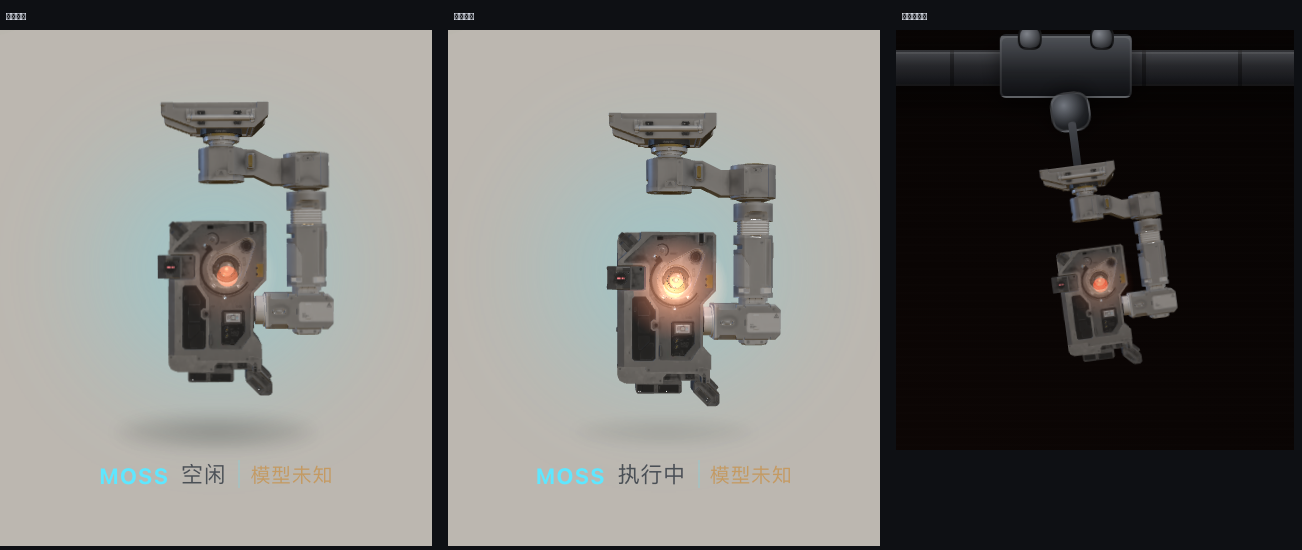
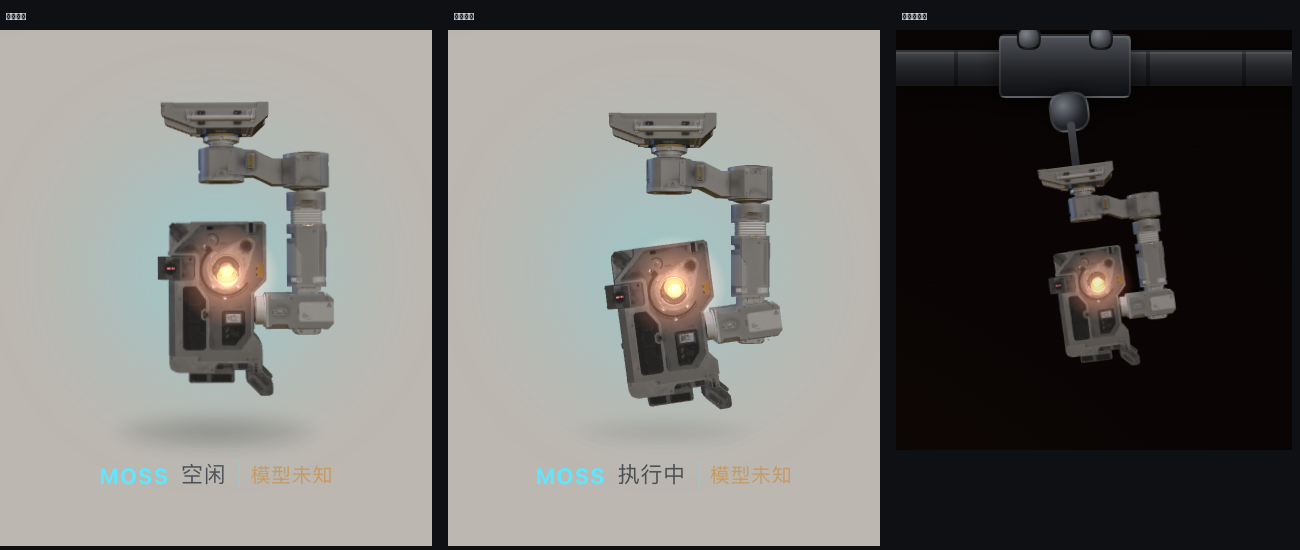
feat(moss): 三关节改为关键帧姿态序列
姿态（度）：
  静止 0/0/0 → 右偏 +9/-5/+6 → 左偏 -7/+6/-5 → 回中 +4/-2/+3 → 静止 0/0/0
- J1、J2 绕垂直 Y 轴偏航，J3 绕 Z 轴画面内摆
- 每段 1.6s smoothstep 缓动，循环；执行态每段 1.0s、角度 ×1.25、速度 ×2.6
- 修复动画块多出一个未闭合花括号的语法错误
- 素材版本 v54

diff --git a/assets3d/boot.js b/assets3d/boot.js
@@ -281,34 +281,29 @@ export function createMoss3D(canvas, opts) {
     last = now || 0
     const t = (performance.now() - t0) / 1000
     const speed = working ? 2.6 : 1
-    if (armTop) {
-      /* 肩关节与肘关节反向配合：手臂抬起时小臂回折，手始终靠近机身 */
-      /* 三个关节：轴向不同、角度不同、周期不同（各自独立的正弦） */
-      const scale = working ? 1.7 : 1
-      if (armTop) {
-        /* J1 绕垂直轴偏航 */
-        armTop.rotation.y = Math.sin(t * 0.52 * speed) * (3.0 * scale * Math.PI / 180)
-      }
-      if (armMid) {
-        /* J2 绕垂直轴偏航（周期与相位都不同） */
-        armMid.rotation.y = Math.sin(t * 0.83 * speed + 1.2) * (2.4 * scale * Math.PI / 180)
-      }
-      if (armWrist) {
-        /* J3 绕朝向镜头的 Z 轴摆动 */
-        armWrist.rotation.z = Math.sin(t * 0.61 * speed + 2.1) * (1.8 * scale * Math.PI / 180)
-      }
-    }
-    if (lensCore && lensHalo) {
-      /* 空闲：暗红呼吸；执行：亮起并快速脉冲 */
-      const base = working ? 0.95 : 0.55
-      const k = working ? 0.45 : 0.18
-      const pulse = base + Math.sin(t * (working ? 5.2 : 1.6)) * k
-      lensCore.material.opacity = Math.max(0.15, Math.min(1, pulse))
-      lensCore.material.color.setHex(working ? 0xff2a0c : 0xff5a2c)
-      if (lensLamp) lensLamp.intensity = (working ? 3.4 : 1.4) * (0.85 + 0.15 * Math.sin(t * (working ? 5.2 : 1.6)))
-      lensHalo.material.opacity = Math.max(0.12, Math.min(1, pulse * 0.85))
-      lensHalo.scale.setScalar((lensHalo.userData.base || lensHalo.scale.x) * (1 + (working ? 0.06 : 0.03) * Math.sin(t * (working ? 5.2 : 1.6))))
-    }
+    /* 三个关节：按关键帧走具体角度（单位：度）
+         J1/J2 绕垂直 Y 轴偏航，J3 绕朝向镜头的 Z 轴摆。
+         序列：静止 → 右偏 → 左偏 → 回中 → 静止，每段 1.6s，平滑缓动。 */
+      const POSES = [
+        { a1: 0, a2: 0, a3: 0 },
+        { a1: 9, a2: -5, a3: 6 },
+        { a1: -7, a2: 6, a3: -5 },
+        { a1: 4, a2: -2, a3: 3 },
+        { a1: 0, a2: 0, a3: 0 },
+      ]
+      const SEG = working ? 1.0 : 1.6
+      const amp = working ? 1.25 : 1
+      const total = SEG * (POSES.length - 1)
+      const lt = (t * speed) % total
+      const i = Math.min(POSES.length - 2, Math.floor(lt / SEG))
+      const f = (lt - i * SEG) / SEG
+      const e = f * f * (3 - 2 * f) /* smoothstep */
+      const from = POSES[i]
+      const to = POSES[i + 1]
+      const ang = (k) => ((from[k] + (to[k] - from[k]) * e) * amp) * Math.PI / 180
+      if (armTop) armTop.rotation.y = ang('a1')
+      if (armMid) armMid.rotation.y = ang('a2')
+      if (armWrist) armWrist.rotation.z = ang('a3')
     renderer.render(scene, camera)
   }
 

diff --git a/client/client.js b/client/client.js
@@ -37,7 +37,7 @@ window.__ModuleLoader__.load({
     var ROOT_ID = 'dsh-pet-liang-root'
     var POS_KEY = 'dsh-pet-liang:pos'
     /* 素材改了名字没变，加一个版本号强制浏览器重新取（宿主给的是 immutable 缓存） */
-    var ASSET_V = '53'
+    var ASSET_V = '54'
     var STYLE_ID = 'dsh-pet-liang-style'
 
     /** 四档推理等级对应的称呼与氛围色。 */

diff --git a/README.md b/README.md
@@ -109,11 +109,19 @@ MOSS 形象不再用预渲染 PNG，而是**在插件里实时渲染你提供的
 - 模型：`assets3d/moss.fbx`（4 个材质组 Moss_Main / Moss_arm / Moss_Glass / Moss_Annexes）
 - 贴图：4096² 原图压到 512 的 WebP，共 13 张（Base / Normal / Emissive / ORM 打包），合计约 400KB
 - 运行时：`three.module.min.js` + `FBXLoader` + `fflate` + `NURBS*`，全部本地托管，不联网
-- **关节**（参考图逐处核对轴向，见 `screenshots/14-joint-axes.png`）：三个关节的转轴并不相同——
-  - **J1** 头顶下方（颈部圆柱的水平缝）→ 绕**垂直 Y 轴**偏航，±3.0°，周期 0.52
-  - **J2** 前臂顶端（前臂圆柱的水平缝）→ 绕**垂直 Y 轴**偏航，±2.4°，周期 0.83、相位 +1.2
-  - **J3** 腕部（机身右侧、面向镜头的圆面）→ 绕**朝向镜头的 Z 轴**画面内摆，±1.8°，周期 0.61、相位 +2.1
-  三段用**嵌套枢轴**（p1→p2→p3，手与机身挂在 p3 下），所以 J1 转动时下面整组跟着走；执行态幅度 ×1.7、速度 ×2.6
+- **关节**：三处关节的转轴不同，按参考图逐处核对（`screenshots/14-joint-axes.png`）——J1 颈部、J2 前臂顶都是**绕垂直 Y 轴偏航**，J3 腕部是**绕朝向镜头的 Z 轴**画面内摆。用嵌套枢轴 p1→p2→p3，手与机身挂在 p3 下。
+- **转动序列**（`screenshots/15-joint-poses.png`）：按关键帧走具体角度，每段 1.6s 平滑缓动，循环：
+
+  | 关键帧 | J1 偏航 | J2 偏航 | J3 摆动 |
+  | --- | --- | --- | --- |
+  | 静止 | 0° | 0° | 0° |
+  | 右偏 | +9° | −5° | +6° |
+  | 左偏 | −7° | +6° | −5° |
+  | 回中 | +4° | −2° | +3° |
+  | 静止 | 0° | 0° | 0° |
+
+  执行态：每段 1.0s、角度 ×1.25、速度 ×2.6
+
 - **红眼**：模型自带的发光贴图只有 3 个 2px 的 LED 点，主镜头根本没做发光 —— 所以在机身正前方按标定位置加了一层“发光盘 + 径向光晕 + 红色点光”，并**挂在模型根节点上**随模型一起动；空闲暗橙呼吸，执行态转红、变亮、脉冲加快
 - 渲染 30fps 上限；切到梁神时暂停渲染循环
 - 失败兜底：WebGL / 模型加载失败时自动退回 PNG 立绘（`moss-base.webp` + `moss-forearm.webp`）
